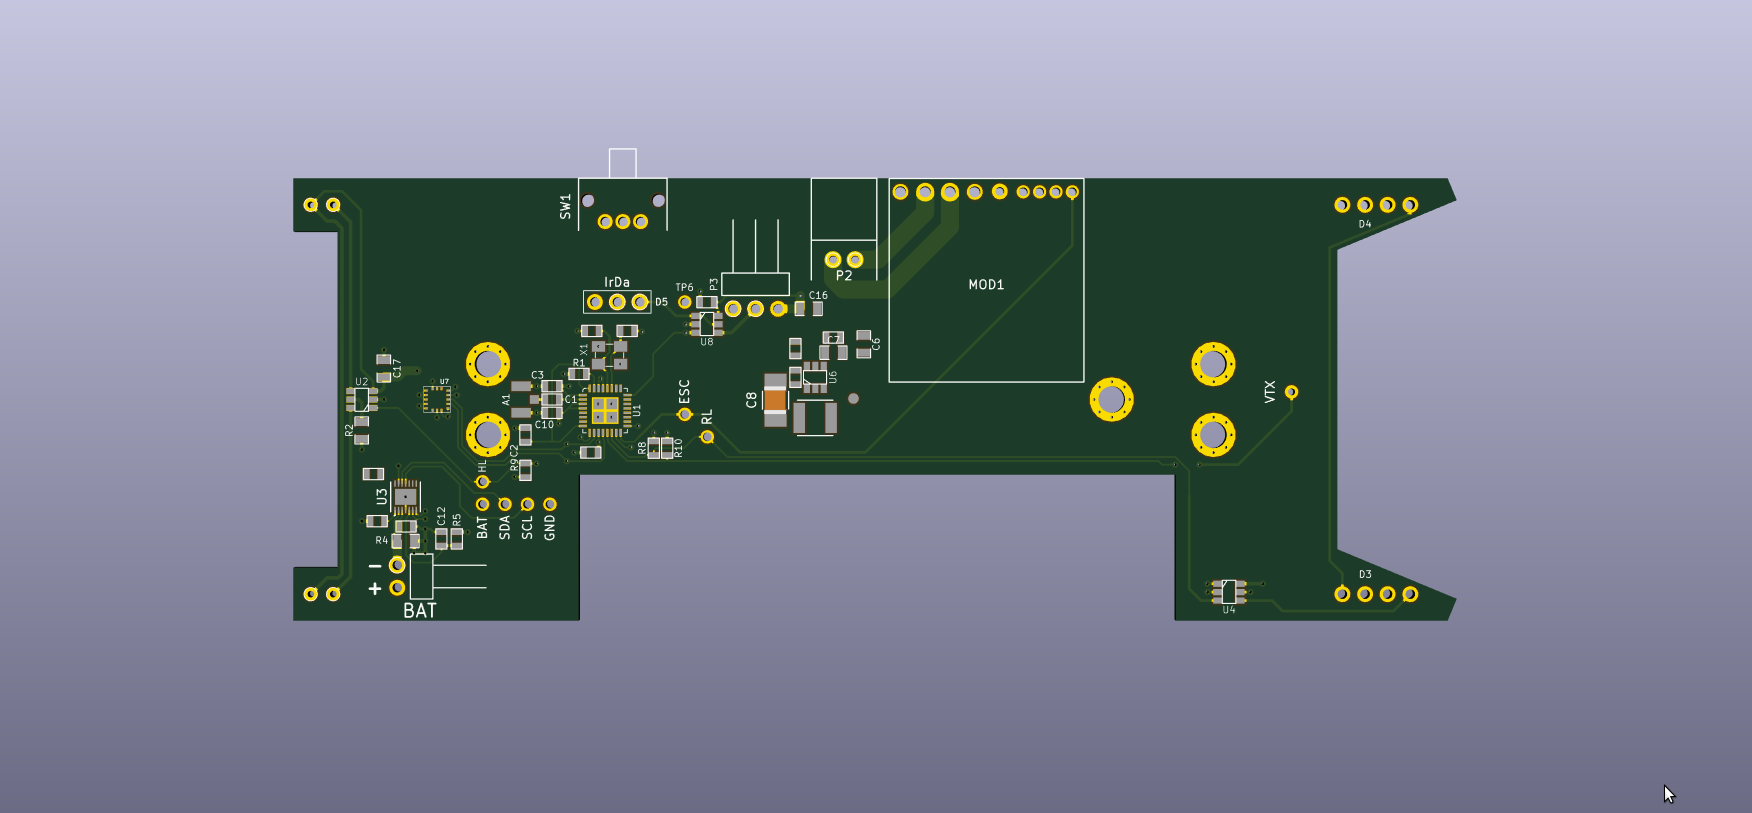
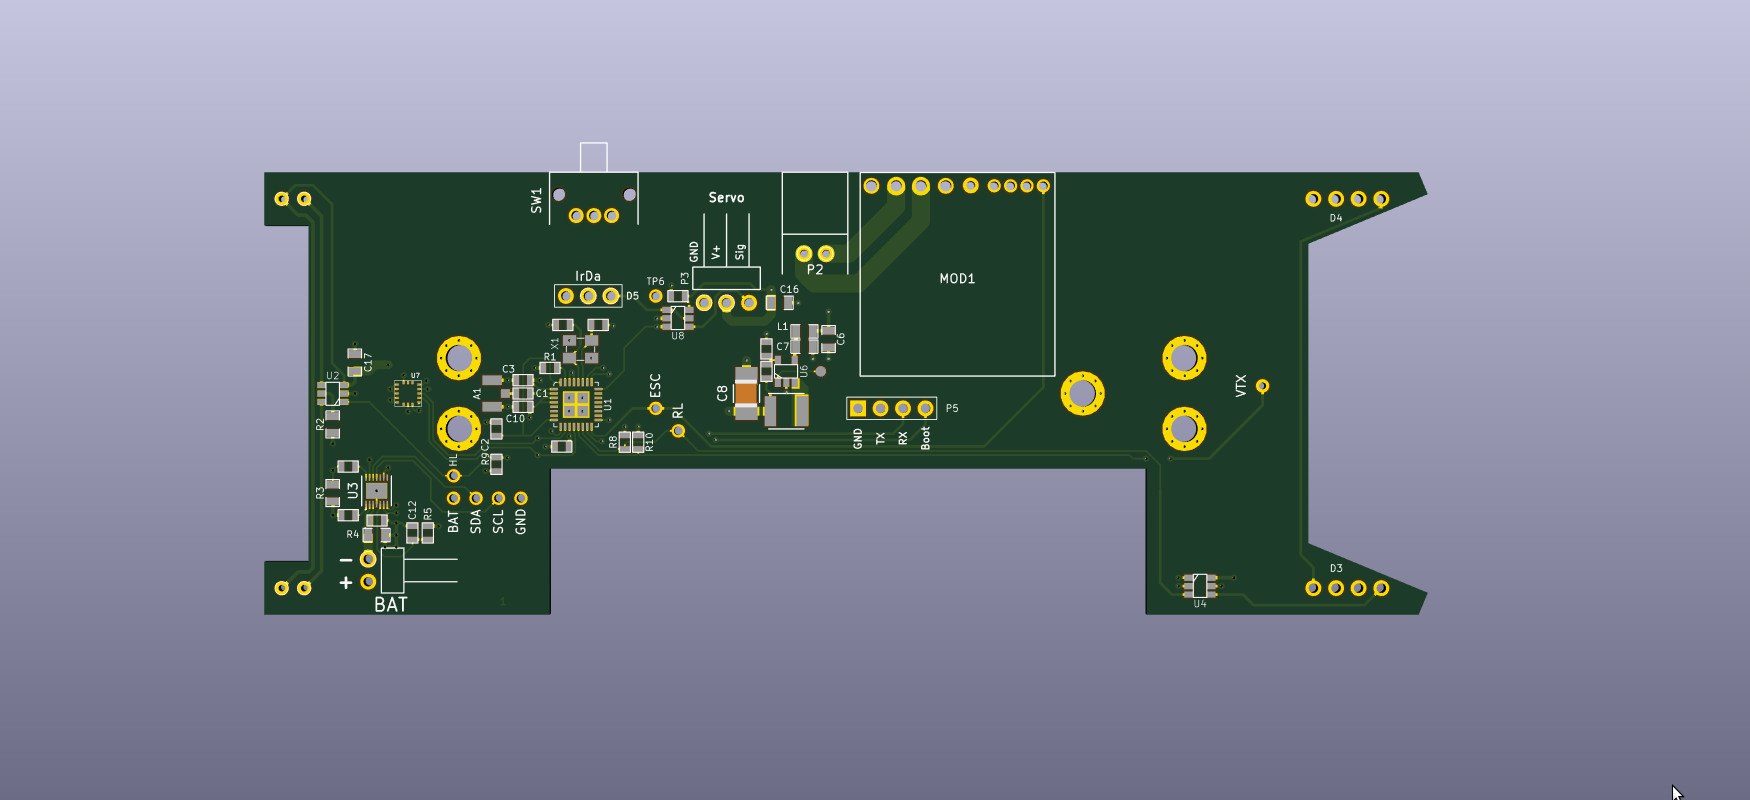
= ADD: Pictures of the first prototype

Changed region(s): [[0.1234, 0.1875, 0.8331, 0.7812], [0.5246, 0.3438, 0.5863, 0.375], [0.9257, 0.9688, 0.9566, 1.0]]

diff --git a/README.md b/README.md
@@ -1,4 +1,4 @@
 Carinsitu
 =========
 
-![Board outline preview](doc/pcb-3D-outline.png)
+![First Prototype](doc/pcb-with-components.jpg)
